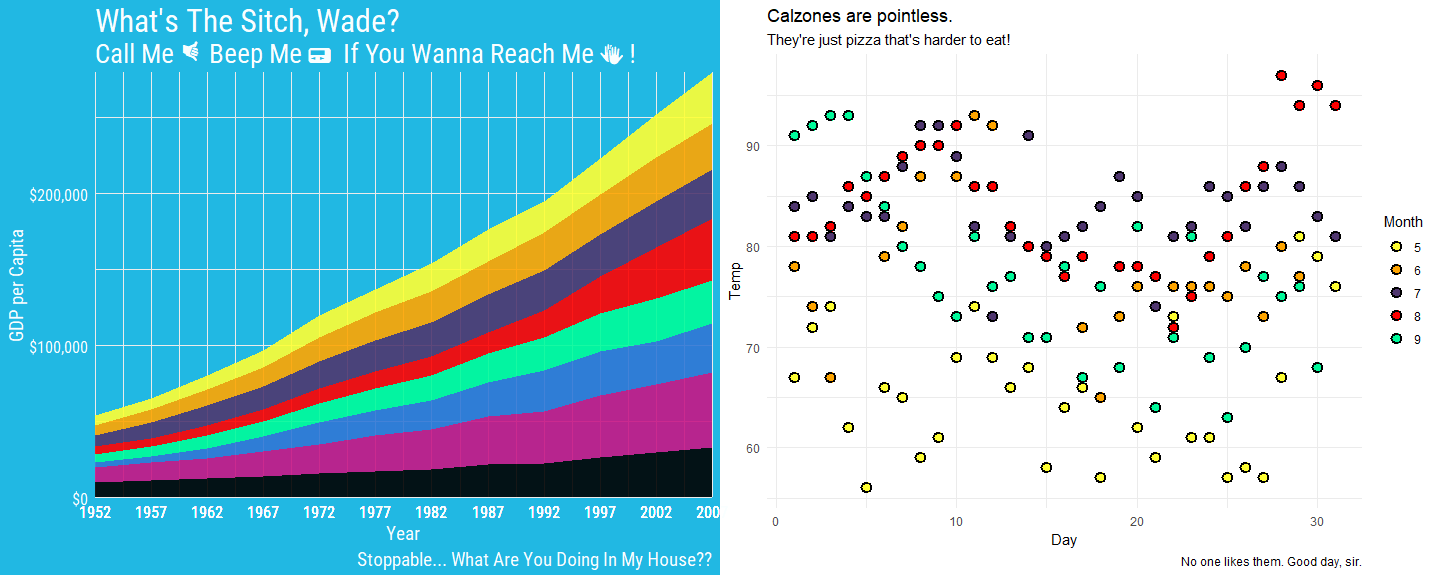
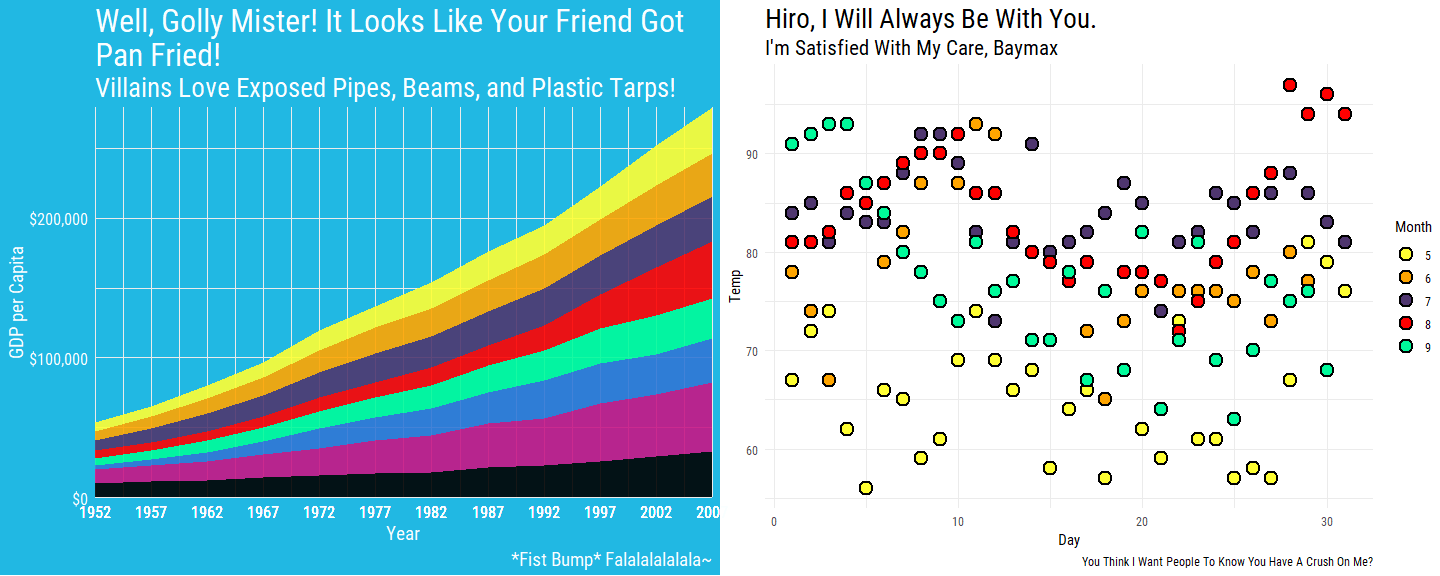
edit README, add aot img

diff --git a/README.md b/README.md
@@ -113,6 +113,7 @@ import_roboto_condensed() ## "Roboto Condensed" Google Font import from hrbrthem
 import_titillium_web()    ## "Titillium Web" Google Font import from hrbrthemes
 import_spongeBob()        ## "Some Time Later" font
 import_cinzel()           ## "Cinzel" font to use with 'The Palettes of Ice & Fire'
+import_ChelseaMarket()    ## "Chelsea Market" font for "Hilda"
 
 ## install.packages("extrafont")
 library(extrafont)
@@ -199,8 +200,6 @@ mpg %>%
   scale_fill_westeros(palette = "Stannis", n = 7, reverse = TRUE)
 ```
 
-<img src="man/figures/README-unnamed-chunk-7-1.png" width="70%" style="display: block; margin: auto;" />
-
 For themes the one change is a toggle option for axis ticks via `ticks`
 which you can set to either `TRUE` and the default `FALSE`.
 
@@ -211,8 +210,6 @@ mpg %>%
   scale_fill_kimPossible(n = 5, reverse = FALSE) +
   theme_hildaDay(ticks = TRUE)
 ```
-
-<img src="man/figures/README-unnamed-chunk-8-1.png" width="70%" style="display: block; margin: auto;" />
 
 ## Examples
 
@@ -556,6 +553,8 @@ mpg %>%
        subtitle = "Gotta Spend Money To Make Money!",
        caption = "And I spent... all of my money!") +
   scale_fill_parksAndRec() + 
+  scale_x_continuous(expand = c(0, 0)) +
+  scale_y_continuous(expand = c(0, 0)) +
   theme_minimal() +
   theme_parksAndRec_light(title.font = "Titillium Web Black",
                     text.font = "Titillium Web") -> parksandreclight
@@ -569,18 +568,21 @@ plot_grid(parksandrec, parksandreclight, ncol = 2)
 ### Attack on Titan
 
 ``` r
+img <- png::readPNG("inst/backgrounds/aot-titan.png")
+
 mpg %>% 
   ggplot(aes(displ)) +
   geom_histogram(aes(fill = rev(class)), col = "black", size = 0.1) +
   scale_fill_attackOnTitan(reverse = FALSE) +
   scale_x_continuous(expand = c(0, 0)) +
   scale_y_continuous(expand = c(0, 0)) +
-  annotate(geom = "label", x = 5, y = 20, 
-           label = "TITANS ARE MY TRIGGER!!", hjust = 0) +
+  annotation_raster(img, xmin = 4.75, xmax = 7.75, 
+                    ymin = 7, ymax = 33) +
   labs(title = "On That Day, Mankind Received A Grim Reminder.",
        subtitle = "Well, Sweet Mother Theresa on the Hood of a Mercedes Benz!",
        caption = "W-Well I'll Just Bertell You What I Berthold Him..") +
-    theme_parksAndRec()
+    theme_parksAndRec(text.font = "Roboto Condensed",
+                      title.font = "Roboto Condensed")
 ```
 
 <img src="man/figures/README-unnamed-chunk-19-1.png" width="70%" style="display: block; margin: auto;" />
@@ -630,9 +632,9 @@ ggplot(data = data, aes(x = year, y = gdpPercap, fill = country)) +
   scale_x_date(expand = c(0, 0), breaks = data$year, date_labels = "%Y") +
   scale_y_continuous(expand = c(0, 0), labels = scales::dollar) +
   scale_fill_bigHero6() +
-  labs(title = "What's The Sitch, Wade?",
-       subtitle = glue("Call Me {emo::ji('call')} Beep Me {emo::ji('pager')}  If You Wanna Reach Me {emo::ji('clap')} !"),
-       caption = "Stoppable... What Are You Doing In My House??",
+  labs(title = stringr::str_wrap("Well, Golly Mister! It Looks Like Your Friend Got Pan Fried!", width = 50),
+       subtitle = "Villains Love Exposed Pipes, Beams, and Plastic Tarps!",
+       caption = "*Fist Bump* Falalalalalala~",
        x = "Year", y = "GDP per Capita") +
   theme_spongeBob(title.font = "Roboto Condensed",
                   text.font = "Roboto Condensed",
@@ -644,11 +646,15 @@ ggplot(data = data, aes(x = year, y = gdpPercap, fill = country)) +
 airquality %>% 
   mutate(Month = as.factor(Month)) %>% 
   ggplot(aes(x = Day, y = Temp, group = Month, fill = Month)) +
-  geom_point(size = 3, stroke = 1.25, shape = 21) +
-  labs(title = "Calzones are pointless.", subtitle = "They're just pizza that's harder to eat!",
-       caption = "No one likes them. Good day, sir.") + 
+  geom_point(size = 4, stroke = 1.25, shape = 21) +
+  labs(title = "Hiro, I Will Always Be With You.", 
+       subtitle = "I'm Satisfied With My Care, Baymax",
+       caption = "You Think I Want People To Know You Have A Crush On Me?") + 
   scale_fill_bigHero6() + 
-  theme_minimal() -> bigherodot
+  theme_minimal() +
+  theme(text = element_text(family = "Roboto Condensed"),
+        plot.title = element_text(size = 20),
+        plot.subtitle = element_text(size = 16)) -> bigherodot
 
 ## plot together:
 plot_grid(bigherobar, bigherodot, ncol = 2)
@@ -666,16 +672,11 @@ airquality %>%
   scale_x_continuous(expand = c(0, 0)) +
   scale_y_continuous(expand = c(0, 0)) +
   scale_color_hilda(palette = "Day") +
-  labs(title = "On That Day, Mankind Received A Grim Reminder...",
-       subtitle = "TITANS ARE MY TRIGGER",
-       caption = "W-Well I'll Just Bertell You What I Berthold Him..") +
+  labs(title = "Well, that was pretty traumatic...",
+       subtitle = "but such is the life of an adventurer!",
+       caption = "I don't even have hands!!") +
     theme_hildaDay(ticks = TRUE,
-                    legend.position = "none")
-```
-
-<img src="man/figures/README-unnamed-chunk-22-1.png" width="70%" style="display: block; margin: auto;" />
-
-``` r
+                    legend.position = "none") -> hildaday
 
 mpg %>% 
   ggplot(aes(displ)) +
@@ -683,16 +684,11 @@ mpg %>%
   scale_x_continuous(expand = c(0, 0)) +
   scale_y_continuous(expand = c(0, 0)) +
   scale_fill_hilda(palette = "Dusk", reverse = TRUE) +
-  labs(title = "On That Day, Mankind Received A Grim Reminder...",
-       subtitle = "TITANS ARE MY TRIGGER",
-       caption = "W-Well I'll Just Bertell You What I Berthold Him..") +
+  labs(title = stringr::str_wrap("If you ask me all houses are basically the same. Roof, floors, walls...", width = 50),
+       subtitle = "people saying STOP WALKING IN LIKE THAT WOODMAN!",
+       caption = "I'm more of a writer than a fighter!") +
     theme_hildaDusk(ticks = TRUE,
-                    legend.position = "none")
-```
-
-<img src="man/figures/README-unnamed-chunk-22-2.png" width="70%" style="display: block; margin: auto;" />
-
-``` r
+                    legend.position = "none") -> hildadusk
 
 airquality %>% 
   mutate(Month = as.factor(Month)) %>% 
@@ -700,45 +696,16 @@ airquality %>%
   geom_point(size = 3, stroke = 1.25, shape = 21) +
   labs(title = "Could someone close that door,", 
        subtitle = "it's a little drafty in here...",
-       caption = "No one likes them. Good day, sir.") + 
+       caption = "I'm quite tall for an elf, actually.") + 
   scale_fill_hilda(palette = "Night", reverse = TRUE) +
-  theme_hildaNight(ticks = TRUE)
+  scale_x_continuous(expand = c(0.05, 0.02)) +
+  scale_y_continuous(expand = c(0.05, 0.02)) +
+  theme_hildaNight(ticks = TRUE) -> hildanight
+
+plot_grid(hildaday, hildadusk, hildanight, ncol = 2)
 ```
 
-<img src="man/figures/README-unnamed-chunk-22-3.png" width="70%" style="display: block; margin: auto;" />
-
-Also, there is nothing stopping you from mixing the `theme` and
-`palette`, below: `"Day" palette` with `"Night" theme`\!
-
-``` r
-data <- gapminder::gapminder %>% 
-  filter(country %in% c("France", "Germany", "Ireland", "Italy", 
-                        "Japan", "Norway", "Finland", "United Kingdom")) %>% 
-  mutate(year = as.Date(paste(year, "-01-01", sep = "", format = '%Y-%b-%d')))
-
-ggplot(data = data, aes(x = year, y = gdpPercap, fill = country)) +
-  geom_area(alpha = 0.9) +
-  scale_x_date(expand = c(0, 0),
-               breaks = data$year, 
-               date_labels = "%Y") +
-  scale_y_continuous(expand = c(0, 0), 
-                     labels = scales::dollar) +
-  scale_fill_hilda(palette = "Day") +
-  labs(title = "What's The Sitch, Wade?",
-       subtitle = glue("Call Me {emo::ji('call')} Beep Me {emo::ji('pager')}  If You Wanna Reach Me {emo::ji('clap')} !"),
-       caption = "Stoppable... What Are You Doing In My House??",
-       x = "Year", y = "GDP per Capita") +
-  theme_hildaNight(title.font = "Roboto Condensed",
-              text.font = "Roboto Condensed",
-              title.size = 24,
-              subtitle.size = 20,
-              text.size = 18,
-              legend.title.size = 14,
-              legend.text.size = 12,
-              ticks = TRUE)
-```
-
-<img src="man/figures/README-unnamed-chunk-23-1.png" width="70%" style="display: block; margin: auto;" />
+<img src="man/figures/README-unnamed-chunk-22-1.png" width="70%" style="display: block; margin: auto;" />
 
 ## Contributing
 
